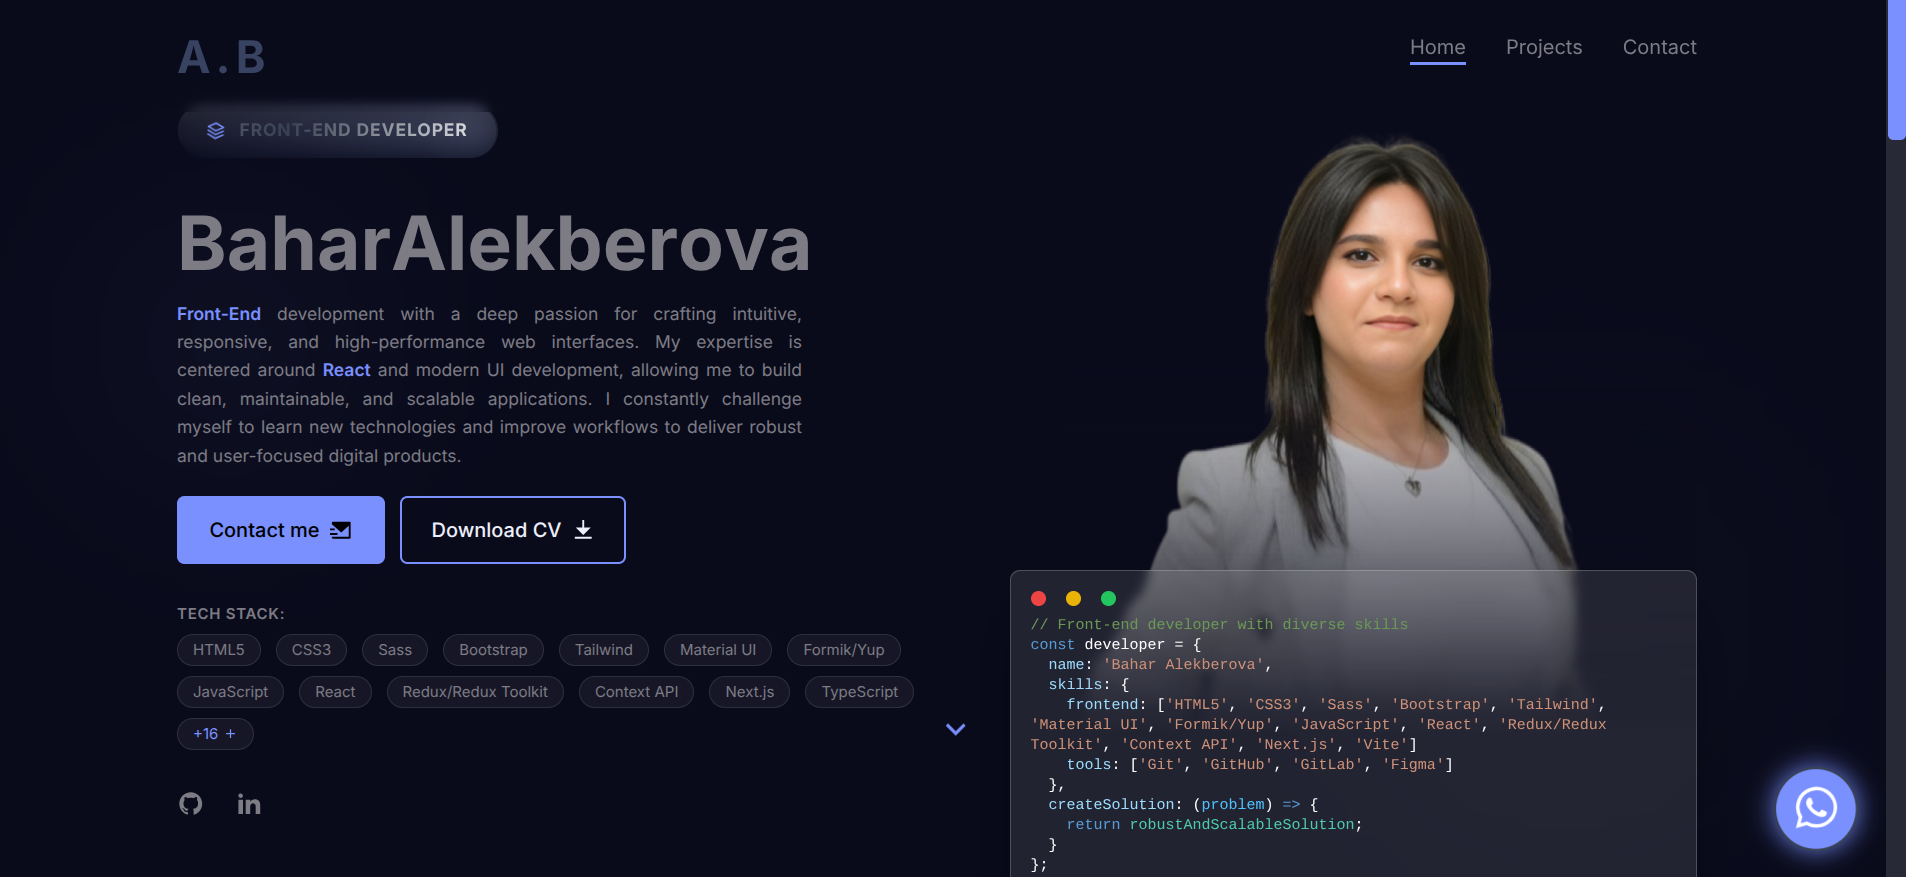
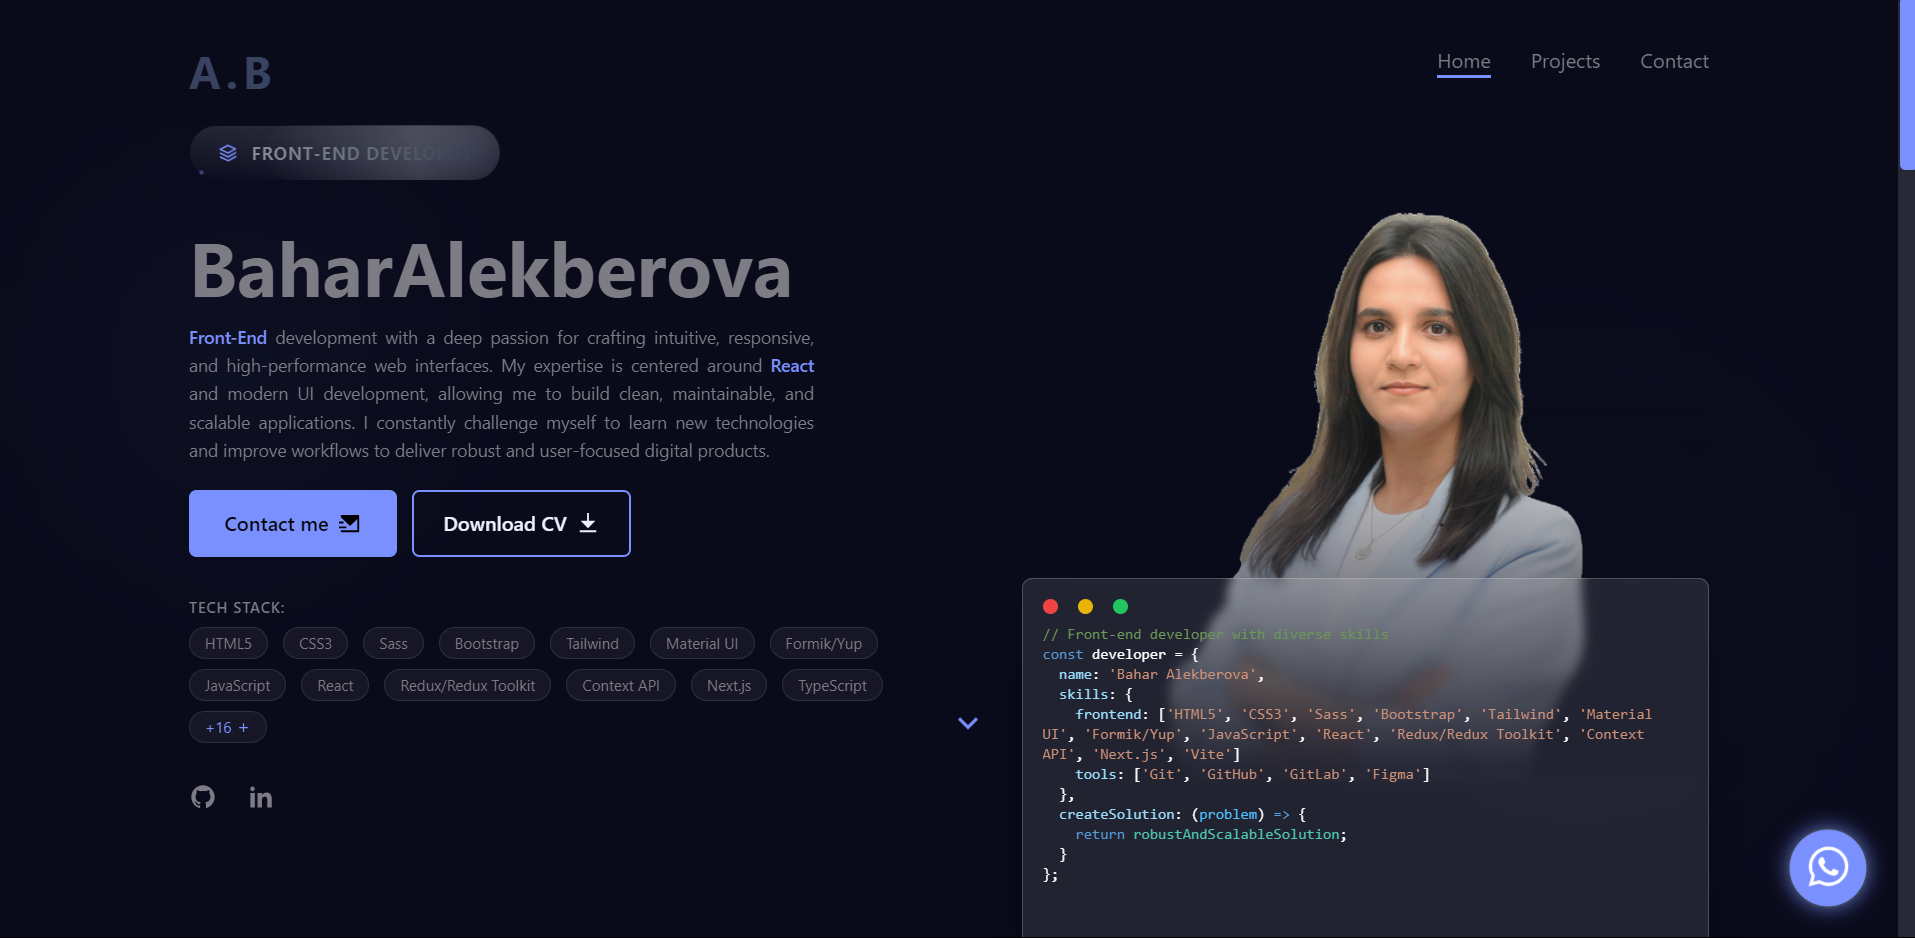
change photo

diff --git a/src/components/Other/InitialHome/InitialHome.tsx b/src/components/Other/InitialHome/InitialHome.tsx
@@ -389,7 +389,7 @@ const InitialHome = () => {
                 containerStyles="w-[510px] h-[520px] relative flex items-center"
                 containerStylesImage="w-full h-auto"
                 // imgSrc="/people/adam-face.png"
-                imgSrc="/people/bahar.png"
+                imgSrc="/people/bahar-nobg.png"
               />
             </FloatingElement>
 
